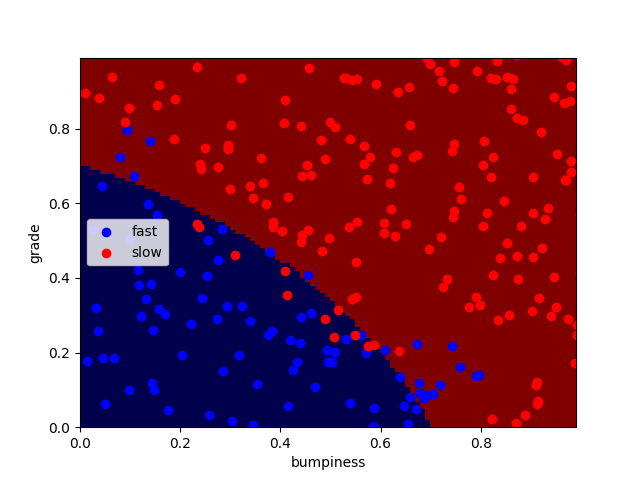
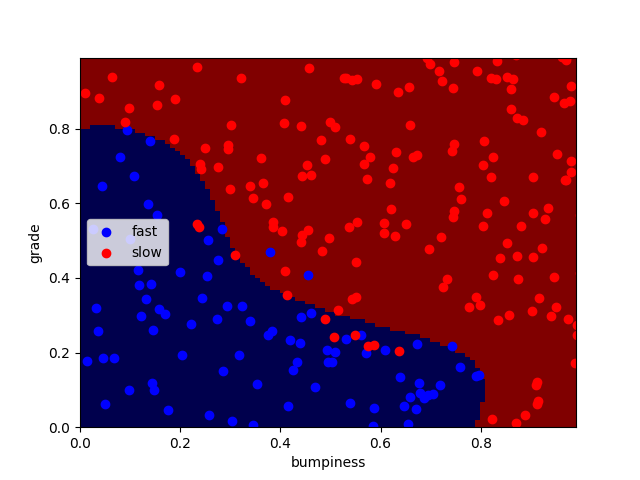
Played with SVC parameters

Changed region(s): [[0.5312, 0.6562, 0.7812, 0.9062], [0.125, 0.25, 0.3438, 0.4688], [0.3438, 0.4688, 0.5312, 0.6562]]

diff --git a/Udacity/ud120/l2.19/ClassifyNB.py b/Udacity/ud120/l2.19/ClassifyNB.py
@@ -9,8 +9,12 @@ def classify(features_train, labels_train):
     
     ### your code goes here!
 
-    from sklearn.naive_bayes import GaussianNB
-    clf = GaussianNB()
+    # from sklearn.naive_bayes import GaussianNB
+    # clf = GaussianNB()
+
+    from sklearn.svm import SVC
+    clf = SVC(kernel="rbf",gamma="auto",C=100000)
+
     clf.fit(features_train, labels_train)
 
     return clf
